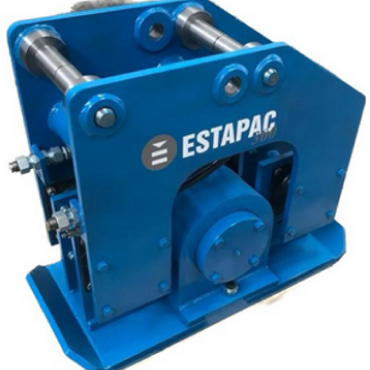
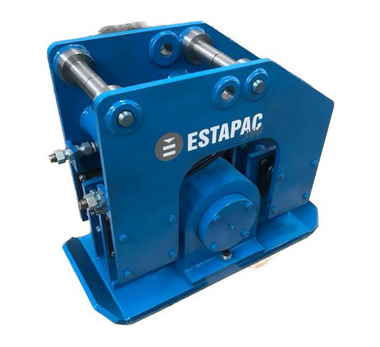
added a better version of image

diff --git a/src/app/components/CardProduct/index.tsx b/src/app/components/CardProduct/index.tsx
@@ -28,7 +28,7 @@ export function CardProduct({ id, image, name } : { id: string, image: string, n
 
     return (
         <button type="button" onClick={()=>handleNavigate()} onMouseEnter={()=> setVisible(true)} onMouseLeave={()=> setVisible(false)} className={`duration-500 opacity-${opacity} shadow-2xl m-4 rounded-xl hover:cursor-pointer duration-200 hover:scale-105`}>
-            <img className="w-full object-cover h-72 rounded-t-xl" src={name == "Engate Rápido" ? EngateRapido : name == "Tesoura Hidráulica" ? TesouraHidraulica : name == "Compactadores" ? Compactadores : name == "Rompedores" ? Rompedores : image} alt="Imagem do Produto" />
+            <img className="w-full object-cover h-auto rounded-t-xl" src={name == "Engate Rápido" ? EngateRapido : name == "Tesoura Hidráulica" ? TesouraHidraulica : name == "Compactadores" ? Compactadores : name == "Rompedores" ? Rompedores : image} alt="Imagem do Produto" />
             <div className="flex flex-col items-center py-4">
                 <h5 className="text-center font-semibold">{name}</h5>
                 <label style={labelStyle} className="text-primary font-semibold text-small">{`Ver mais >`}</label>
